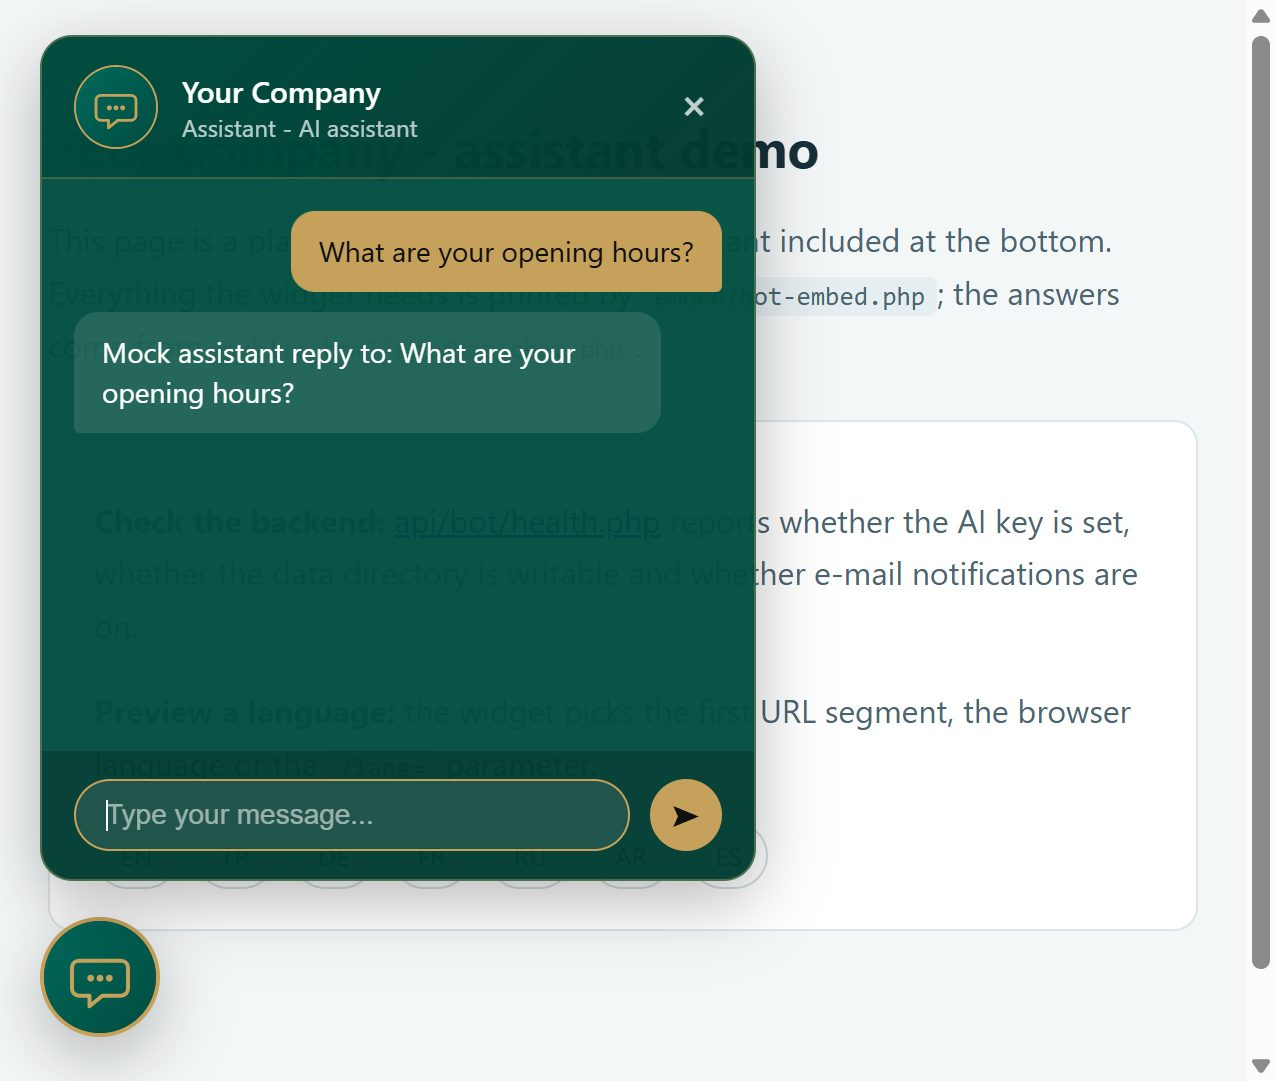
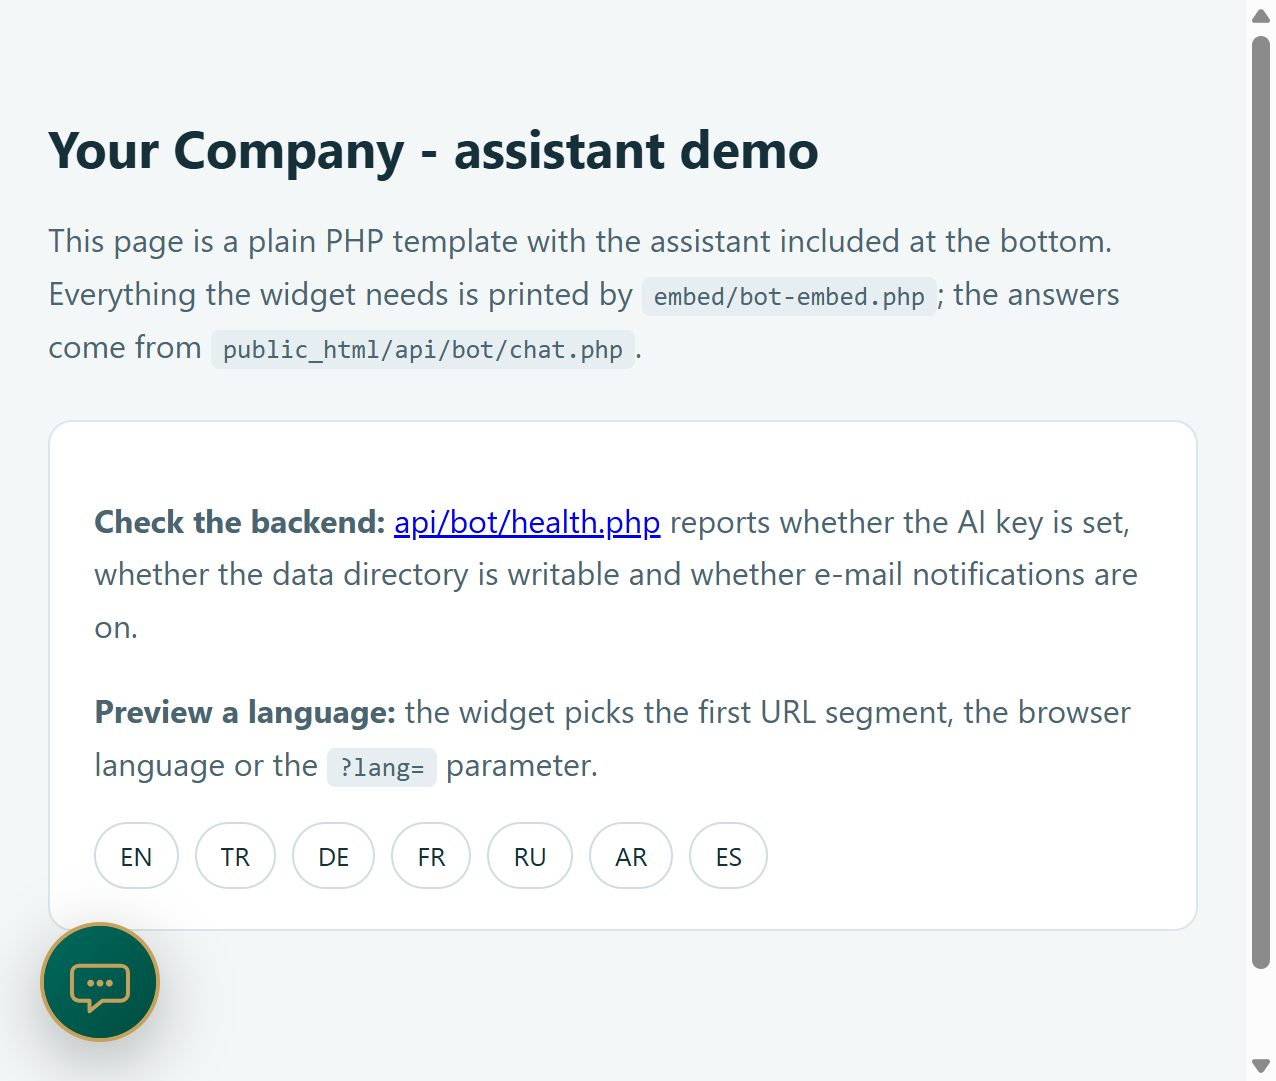
Polish public docs and remove leftover site-specific config

diff --git a/public_html/assets/js/bot-widget.js b/public_html/assets/js/bot-widget.js
@@ -8,7 +8,7 @@
  *   window.BOT_WIDGET_CONFIG = {
  *     brandName, assistantName, subtitle, avatar, primaryColor, accentColor,
  *     apiChat, lang, position, autoOpen, openDelay, scrollThreshold,
- *     maxHistory, maxInput, showLauncher, hideSelectors, bannerClass,
+ *     maxHistory, maxInput, showLauncher, hideSelectors,
  *     strings: { en: { welcome: '...' } }   // per-language overrides
  *   }
  *
@@ -20,8 +20,8 @@
 
     var DEFAULTS = {
         brandName: 'Your Company',
-        assistantName: 'Ava',
-        subtitle: 'AI Assistant',
+        assistantName: 'Assistant',
+        subtitle: 'AI assistant',
         avatar: '/assets/img/bot-avatar.svg',
         primaryColor: '#004d40',
         accentColor: '#c6a15b',
@@ -34,8 +34,7 @@
         maxHistory: 6,
         maxInput: 1000,
         showLauncher: true,
-        hideSelectors: ['.floating-social'],
-        bannerClass: 'cc-active',
+        hideSelectors: [],
         strings: {}
     };
 

diff --git a/public_html/demo.html b/public_html/demo.html
@@ -22,8 +22,8 @@
   <pre>&lt;script&gt;
   window.BOT_WIDGET_CONFIG = {
     brandName: "Your Company",
-    assistantName: "Ava",
-    subtitle: "AI Assistant",
+    assistantName: "Assistant",
+    subtitle: "AI assistant",
     avatar: "/assets/img/bot-avatar.svg",
     primaryColor: "#004d40",
     accentColor: "#c6a15b",
@@ -40,8 +40,8 @@
 <script>
   window.BOT_WIDGET_CONFIG = {
     brandName: 'Your Company',
-    assistantName: 'Ava',
-    subtitle: 'AI Assistant',
+    assistantName: 'Assistant',
+    subtitle: 'AI assistant',
     avatar: 'assets/img/bot-avatar.svg',
     primaryColor: '#004d40',
     accentColor: '#c6a15b',

diff --git a/public_html/assets/css/bot-widget.css b/public_html/assets/css/bot-widget.css
@@ -281,8 +281,7 @@
     bottom: 24px;
 }
 
-.botw-banner-open #botw-widget,
-.cc-active #botw-widget {
+.botw-banner-open #botw-widget {
     bottom: 140px;
 }
 
@@ -297,7 +296,6 @@
         right: 12px;
     }
 
-    .cc-active #botw-widget,
     .botw-banner-open #botw-widget {
         bottom: 130px;
     }

diff --git a/config/bot_config.php b/config/bot_config.php
@@ -31,7 +31,7 @@ return [
     'ai' => [
         'base_url'     => rtrim((string) bot_env('AI_BASE_URL', 'https://api.groq.com/openai/v1'), '/'),
         'model'        => bot_env('AI_MODEL', 'qwen/qwen3.8-27b'),
-        'api_key'      => bot_env('AI_API_KEY', bot_env('GROQ_API_KEY', '')),
+        'api_key'      => bot_env('AI_API_KEY', ''),
         'max_tokens'   => (int) bot_env('AI_MAX_TOKENS', 250),
         'temperature'  => (float) bot_env('AI_TEMPERATURE', 0.5),
         'timeout'      => (int) bot_env('AI_TIMEOUT', 20),
@@ -64,10 +64,8 @@ return [
         'max_history'      => (int) bot_env('BOT_MAX_HISTORY', 6),
         'max_input'        => (int) bot_env('BOT_MAX_INPUT', 1000),
         'show_launcher'    => filter_var(bot_env('BOT_SHOW_LAUNCHER', 'true'), FILTER_VALIDATE_BOOLEAN),
-        // Elements the widget hides while the chat is open (source-site cleanup).
-        'hide_selectors'   => ['.floating-social'],
-        // Body class that pushes the launcher up while a cookie banner shows.
-        'banner_class'     => 'cc-active',
+        // Elements the widget hides while the chat is open.
+        'hide_selectors'   => [],
         // URL bases. Set these when the site lives in a subdirectory.
         'asset_base'       => rtrim((string) bot_env('BOT_ASSET_BASE', '/assets/'), '/') . '/',
         'api_base'         => rtrim((string) bot_env('BOT_API_BASE', '/api/bot'), '/') . '/',

diff --git a/embed/bot-embed.php b/embed/bot-embed.php
@@ -17,8 +17,8 @@ $botLang = isset($botLang) && is_string($botLang) && $botLang !== ''
 
 $botWidgetConfig = [
     'brandName'       => (string) bot_config('brand.name', 'Your Company'),
-    'assistantName'   => (string) bot_config('brand.assistant', 'Ava'),
-    'subtitle'        => (string) bot_config('brand.subtitle', 'AI Assistant'),
+    'assistantName'   => (string) bot_config('brand.assistant', 'Assistant'),
+    'subtitle'        => (string) bot_config('brand.subtitle', 'AI assistant'),
     'avatar'          => bot_avatar_url(),
     'primaryColor'    => (string) bot_config('brand.color', '#004d40'),
     'accentColor'     => (string) bot_config('brand.color_accent', '#c6a15b'),
@@ -32,7 +32,6 @@ $botWidgetConfig = [
     'maxInput'        => (int) bot_config('widget.max_input', 1000),
     'showLauncher'    => (bool) bot_config('widget.show_launcher', true),
     'hideSelectors'   => (array) bot_config('widget.hide_selectors', []),
-    'bannerClass'     => (string) bot_config('widget.banner_class', 'cc-active'),
 ];
 
 $botAsset   = bot_asset_base();

diff --git a/README.md b/README.md
@@ -1,64 +1,80 @@
-# website-bot
+# websitebot
 
-A drop-in AI support assistant for any website: a floating chat widget, a small
-PHP backend, multilingual UI and lead capture.
+**A drop-in AI support assistant for any website.** A floating chat widget, a small
+dependency-free PHP backend, 28 UI languages and lead capture — one API key and it works.
 
-- No build step, no framework, no composer dependencies — plain PHP 8 + jQuery-free JS
-- Works from a single include line (PHP) or three tags (any static site)
-- Any OpenAI-compatible endpoint: Groq, OpenAI, OpenRouter, Together, a local vLLM/Ollama gateway
-- 28 UI languages, automatic language detection, RTL support
-- Lead capture: JSON log + optional e-mail card, rate limiting, no key ever reaches the browser
+![The widget answering a visitor](docs/screenshot.jpg)
 
-**The only required setting is `AI_API_KEY`.** Everything else has a working default.
+## Why this one
 
-![widget](docs/screenshot.jpg)
-
----
+- **No build step, no framework, no Composer.** Plain PHP 8 and vanilla JavaScript.
+- **Two ways to install:** one `include` line in PHP, or three HTML tags on any site
+  (static HTML, WordPress, Shopify, a landing page built with anything).
+- **Any OpenAI-compatible API.** Groq, OpenAI, OpenRouter, Together, DeepSeek, or a local
+  vLLM / Ollama / LM Studio gateway. Only `AI_BASE_URL` and `AI_MODEL` change.
+- **The key never reaches the browser.** All model calls happen server-side.
+- **Lead capture built in.** Contact details are detected, stored as JSON, and optionally
+  mailed to you as a lead card.
+- **28 languages with RTL support.** The widget follows the page language and the model
+  answers in the language the visitor writes in.
 
 ## Quick start
 
 ```bash
-git clone https://github.com/<you>/website-bot.git
-cd website-bot
-cp .env.example .env        # then set AI_API_KEY
+git clone https://github.com/erhancode/websitebot.git
+cd websitebot
+cp .env.example .env          # set AI_API_KEY, optionally AI_MODEL
 php -S 127.0.0.1:8123 -t public_html
 ```
 
-Open <http://127.0.0.1:8123> — the landing page shows the widget and the setup status.
-`/api/bot/health.php` reports what is configured (it never exposes secrets).
+Open <http://127.0.0.1:8123>: the landing page shows the widget and whether it is
+configured. `GET /api/bot/health.php` reports the setup state as JSON and never exposes
+a secret.
 
-## Layout
+Two demos are included: `demo.php` (PHP include, `?lang=tr` switches language) and
+`demo.html` (static snippet, no PHP).
 
-`public_html` is the document root; everything else must sit **next to** it:
+## Requirements
+
+- PHP 8.0+ (`json` is bundled). `curl` **or** `openssl` is needed for real HTTPS AI calls;
+  virtually every host ships both.
+- A writable `data/` directory.
+- Any OpenAI-compatible `/chat/completions` endpoint.
+
+## Project layout
+
+`public_html/` is the document root. Everything else must sit **next to it**, not inside it:
 
 ```
-website-bot/
-├── public_html/          <- document root
-│   ├── index.php         landing page (demo only, delete in production)
-│   ├── demo.php          PHP include demo
-│   ├── demo.html         static HTML demo
-│   ├── assets/           widget JS, CSS, avatar
-│   └── api/bot/          chat.php, health.php, lead.php
-├── core/                 ChatHandler, lead worker, mailer, bootstrap
-├── config/               bot_config.php, env_loader.php
-├── embed/                bot-embed.php (one-line PHP include)
-├── tests/                mock AI endpoint + smoke test
-├── data/                 leads, locks, logs (writable, kept out of the web root)
-├── .env.example
-└── README.md
+websitebot/
+├── public_html/            document root
+│   ├── index.php           landing page with setup status (demo only)
+│   ├── demo.php            PHP include demo
+│   ├── demo.html           static HTML demo
+│   ├── assets/             widget JS, CSS, avatar
+│   └── api/bot/            chat.php, health.php, lead.php
+├── core/                   ChatHandler, lead worker, mailer, bootstrap
+├── config/                 bot_config.php, env_loader.php
+├── embed/                  bot-embed.php (one-line PHP include)
+├── tests/                  mock AI endpoint, smoke test, proxy IP check
+├── data/                   leads, rate-limit locks, logs (kept out of the web root)
+└── .env.example
 ```
 
-## Add it to a site
+## Install it on your site
 
 ### PHP
 
 Before `</body>`:
 
 ```php
-<?php $botLang = $lang ?? 'en'; include '/path/to/embed/bot-embed.php'; ?>
+<?php $botLang = $lang ?? 'en'; include '/path/to/websitebot/embed/bot-embed.php'; ?>
 ```
 
-### Any site (static HTML, WordPress, Shopify…)
+`bot-embed.php` prints the config, the CSS link and the script tag, with avatars and API
+URLs resolved from your configuration.
+
+### Any other site
 
 ```html
 <script>
@@ -73,107 +89,104 @@ Before `</body>`:
 <script src="https://your-server.com/assets/js/bot-widget.js" defer></script>
 ```
 
-Cross-origin? Set `BOT_CORS_ORIGIN=https://yoursite.com` in `.env`.
+Widget on a different origin than the API? Set `BOT_CORS_ORIGIN=https://yoursite.com`.
 Installed in a sub-directory? Set `BOT_ASSET_BASE` and `BOT_API_BASE`.
 
 ## Configuration
 
-Everything lives in `.env` (see `.env.example`) or `config/bot_config.php`.
+Everything is read from `.env` (see `.env.example`) and can be overridden in
+`config/bot_config.php`. `AI_API_KEY` is the only value without a usable default; the rest
+fall back to neutral placeholders (`Your Company`, `Assistant`).
 
 | Group | Keys |
 | --- | --- |
-| AI | `AI_API_KEY`, `AI_BASE_URL`, `AI_MODEL`, `AI_MAX_TOKENS`, `AI_TEMPERATURE`, `AI_TIMEOUT`, `AI_SSL_VERIFY` |
-| Branding | `BOT_BRAND_NAME`, `BOT_ASSISTANT_NAME`, `BOT_ASSISTANT_ROLE`, `BOT_SUBTITLE`, `BOT_AVATAR`, `BOT_COLOR_PRIMARY`, `BOT_COLOR_ACCENT` |
-| Widget | `BOT_DEFAULT_LANG`, `BOT_POSITION`, `BOT_AUTO_OPEN`, `BOT_OPEN_DELAY`, `BOT_MAX_INPUT`, `BOT_ASSET_BASE`, `BOT_API_BASE`, `BOT_CORS_ORIGIN` |
+| AI | `AI_API_KEY`, `AI_BASE_URL`, `AI_MODEL`, `AI_MAX_TOKENS`, `AI_TEMPERATURE`, `AI_TIMEOUT`, `AI_SSL_VERIFY`, `BOT_EXTRACT_LEADS` |
+| Branding | `BOT_BRAND_NAME`, `BOT_ASSISTANT_NAME`, `BOT_ASSISTANT_ROLE`, `BOT_SUBTITLE`, `BOT_WEBSITE`, `BOT_AVATAR`, `BOT_COLOR_PRIMARY`, `BOT_COLOR_ACCENT` |
+| Widget | `BOT_DEFAULT_LANG`, `BOT_POSITION`, `BOT_AUTO_OPEN`, `BOT_OPEN_DELAY`, `BOT_SCROLL_THRESHOLD`, `BOT_MAX_HISTORY`, `BOT_MAX_INPUT`, `BOT_SHOW_LAUNCHER`, `BOT_ASSET_BASE`, `BOT_API_BASE`, `BOT_CORS_ORIGIN` |
 | Leads | `BOT_STORE_LEADS`, `LEAD_NOTIFY_EMAIL`, `BOT_INTERNAL_KEY`, `BOT_RATE_LIMIT`, `BOT_RATE_WINDOW`, `BOT_TRUST_PROXY`, `BOT_LEAD_DEDUPE`, `BOT_KEEP_LEADS` |
-| Mail | `SMTP_HOST`, `SMTP_PORT`, `SMTP_USER`, `SMTP_PASS`, `FROM_EMAIL`, `FROM_NAME` |
+| Mail | `SMTP_HOST`, `SMTP_PORT`, `SMTP_USER`, `SMTP_PASS`, `FROM_EMAIL`, `FROM_NAME`, `SMTP_SSL_VERIFY` |
 | Prompt | `BOT_EXTRA_PROMPT` (appends rules), `BOT_SYSTEM_PROMPT` (replaces the generated prompt) |
+
+Widget-only options without an environment variable — `hide_selectors` (elements hidden while
+the chat is open) and the language list — are set in `config/bot_config.php`.
+
+The generated system prompt already forbids invented facts, prices, deadlines and
+guarantees, and tells the model to collect name plus one contact channel.
 
 ### UI strings
 
-`public_html/assets/js/bot-widget.js` → `var I18N = { ... }`. Every string supports the
-`{brand}` and `{assistant}` placeholders. To override a language from a single page without
-touching the file:
+All widget copy lives in `public_html/assets/js/bot-widget.js` → `var I18N = { ... }`.
+Every string supports `{brand}` and `{assistant}` placeholders. Override one language for a
+single page without touching the file:
 
 ```js
 window.BOT_WIDGET_CONFIG = {
-  strings: { en: { welcome: "Hi! How can we help?" } }
+  strings: { en: { welcome: "Hi! How can we help?", close: "Close", send: "Send" } }
 };
 ```
 
-Languages: `tr en ru ky az ar fa de fr es it uz kk ro bg sq sr nl pl cs da el fi fr-ma hu no pt sv`.
-Remove unused ones from `config/bot_config.php` → `languages` (a smaller list means less work
-for the browser).
+Shipped languages: `tr en ru ky az ar fa de fr es it uz kk ro bg sq sr nl pl cs da el fi
+fr-ma hu no pt sv`. Remove unused ones from `languages` in `config/bot_config.php` — a
+shorter list means a smaller payload for the browser.
 
 ## Endpoints
 
 | Endpoint | Method | Purpose |
 | --- | --- | --- |
 | `/api/bot/chat.php` | `POST` | `{message, lang, url, title, history}` → `{reply, is_final, lead_details}` |
-| `/api/bot/chat.php?action=get_lang` | `GET` | browser language hint |
+| `/api/bot/chat.php?action=get_lang` | `GET` | language hint from the browser |
 | `/api/bot/health.php` | `GET` | setup status, no secrets |
 | `/api/bot/lead.php` | `POST` | server-to-server lead push, requires `X-Internal-Key` |
 
+`is_final` turns true once the visitor left a phone number or e-mail address; the widget
+then shows the closing message instead of asking again.
+
 ## Leads
 
-- Every turn is appended to `data/bot_leads.json` (`BOT_STORE_LEADS=false` disables this).
-- When the visitor leaves a phone number or e-mail address, the turn is marked `is_final`
-  and a lead card e-mail is sent to `LEAD_NOTIFY_EMAIL`.
-- E-mail is **off by default** (`LEAD_NOTIFY_EMAIL` empty): leads are still stored.
+- Every turn is appended to `data/bot_leads.json` (`BOT_STORE_LEADS=false` turns this off).
+- A lead card e-mail goes to `LEAD_NOTIFY_EMAIL` when contact details appear, at most once
+  per visitor per `BOT_LEAD_DEDUPE` seconds (default 600).
+- E-mail is **off by default**: leave `LEAD_NOTIFY_EMAIL` empty and leads are still stored.
+- The log keeps the newest `BOT_KEEP_LEADS` records (default 2000).
 - `data/` must be writable and must stay outside the document root.
-- `php -l`-clean, no database required.
 
 ## Tests
 
 ```bash
-# terminal 1: fake OpenAI-compatible server for local runs
+# terminal 1 — fake OpenAI-compatible endpoint
 php -S 127.0.0.1:8124 tests/mock_ai.php
 
-# terminal 2: the app, pointed at the fake server
+# terminal 2 — the app, pointed at the fake endpoint
 AI_BASE_URL=http://127.0.0.1:8124/v1 AI_API_KEY=test php -S 127.0.0.1:8123 -t public_html
 
 # terminal 3
-php tests/smoke.php http://127.0.0.1:8123
+php tests/smoke.php http://127.0.0.1:8123   # 7 end-to-end HTTP checks
+php tests/client_ip.php                      # proxy header handling
 ```
 
-PowerShell equivalent for the second line:
+On PowerShell the second line is:
 
 ```powershell
 $env:AI_BASE_URL='http://127.0.0.1:8124/v1'; $env:AI_API_KEY='test'; php -S 127.0.0.1:8123 -t public_html
 ```
 
-## Requirements
-
-- PHP 8.0+ with `json` (bundled). `curl` or `openssl` is needed for real HTTPS AI calls —
-  most hosts ship both.
-- A writable `data/` directory.
-- Any OpenAI-compatible `/chat/completions` API.
-
 ## Security
 
-- The API key stays server-side; the browser only sees `api/bot/chat.php`.
-- Rate limit per IP, default 20 requests / 60 s.
-- `.env` is git-ignored; no credentials are shipped in the repository.
+- The API key stays server-side; the browser only talks to `chat.php`.
+- Rate limit per IP, default 20 requests / 60 s, stored in `data/locks/`.
+- Behind Cloudflare or nginx, set `BOT_TRUST_PROXY=true` so the limiter sees the visitor IP
+  instead of the proxy address. Leave it off when the app is reached directly.
+- `.env` is git-ignored; no credentials are shipped in this repository.
 - `lead.php` refuses every request until `BOT_INTERNAL_KEY` is set.
-- `AI_SSL_VERIFY=true` by default — only disable it for a self-signed internal endpoint.
+- `AI_SSL_VERIFY=true` by default — disable only for a self-signed internal endpoint.
 
-## Hosting behind Cloudflare
+### Hosting notes
 
-Cloudflare can sit in front of the PHP host as DNS proxy, CDN and WAF, but it cannot
-run this backend itself: Pages and Workers serve static files and JavaScript, not PHP.
-`core/`, `config/`, `data/` and `api/bot/*.php` still need a normal PHP host.
-
-- Set `BOT_TRUST_PROXY=true`. Without it every request reaches PHP from a Cloudflare
-  IP and all visitors share one rate-limit bucket.
-- SSL/TLS mode **Full (strict)** — *Flexible* causes redirect loops.
-- Add a Cloudflare rate-limiting rule on `/api/bot/chat.php` (for example 30 requests
-  per minute per IP) as a second layer in front of the built-in limiter.
-- Cache `/assets/*` aggressively and bypass cache for `/api/bot/*`; chat traffic is
-  `POST` and must never be cached.
-- Widget and API on different origins? Set `BOT_CORS_ORIGIN=https://yoursite.com` and
-  absolute `BOT_ASSET_BASE` / `BOT_API_BASE` URLs.
-- For heavy abuse, add a Turnstile check in front of `chat.php`. It is not built in;
-  the rate limit plus WAF rules cover normal sites.
+- Cloudflare cannot run this backend: Pages and Workers serve static files and JavaScript,
+  not PHP. Cloudflare in front of a PHP host works fine (Full SSL, cache `/assets/*`,
+  bypass cache for `/api/bot/*`, plus an edge rate-limit rule if you want one).
+- The lead store is a JSON file, so the app expects a normal single-server PHP host and a
+  writable `data/`. Horizontal scaling would need a shared store.
 
 ## License
 
